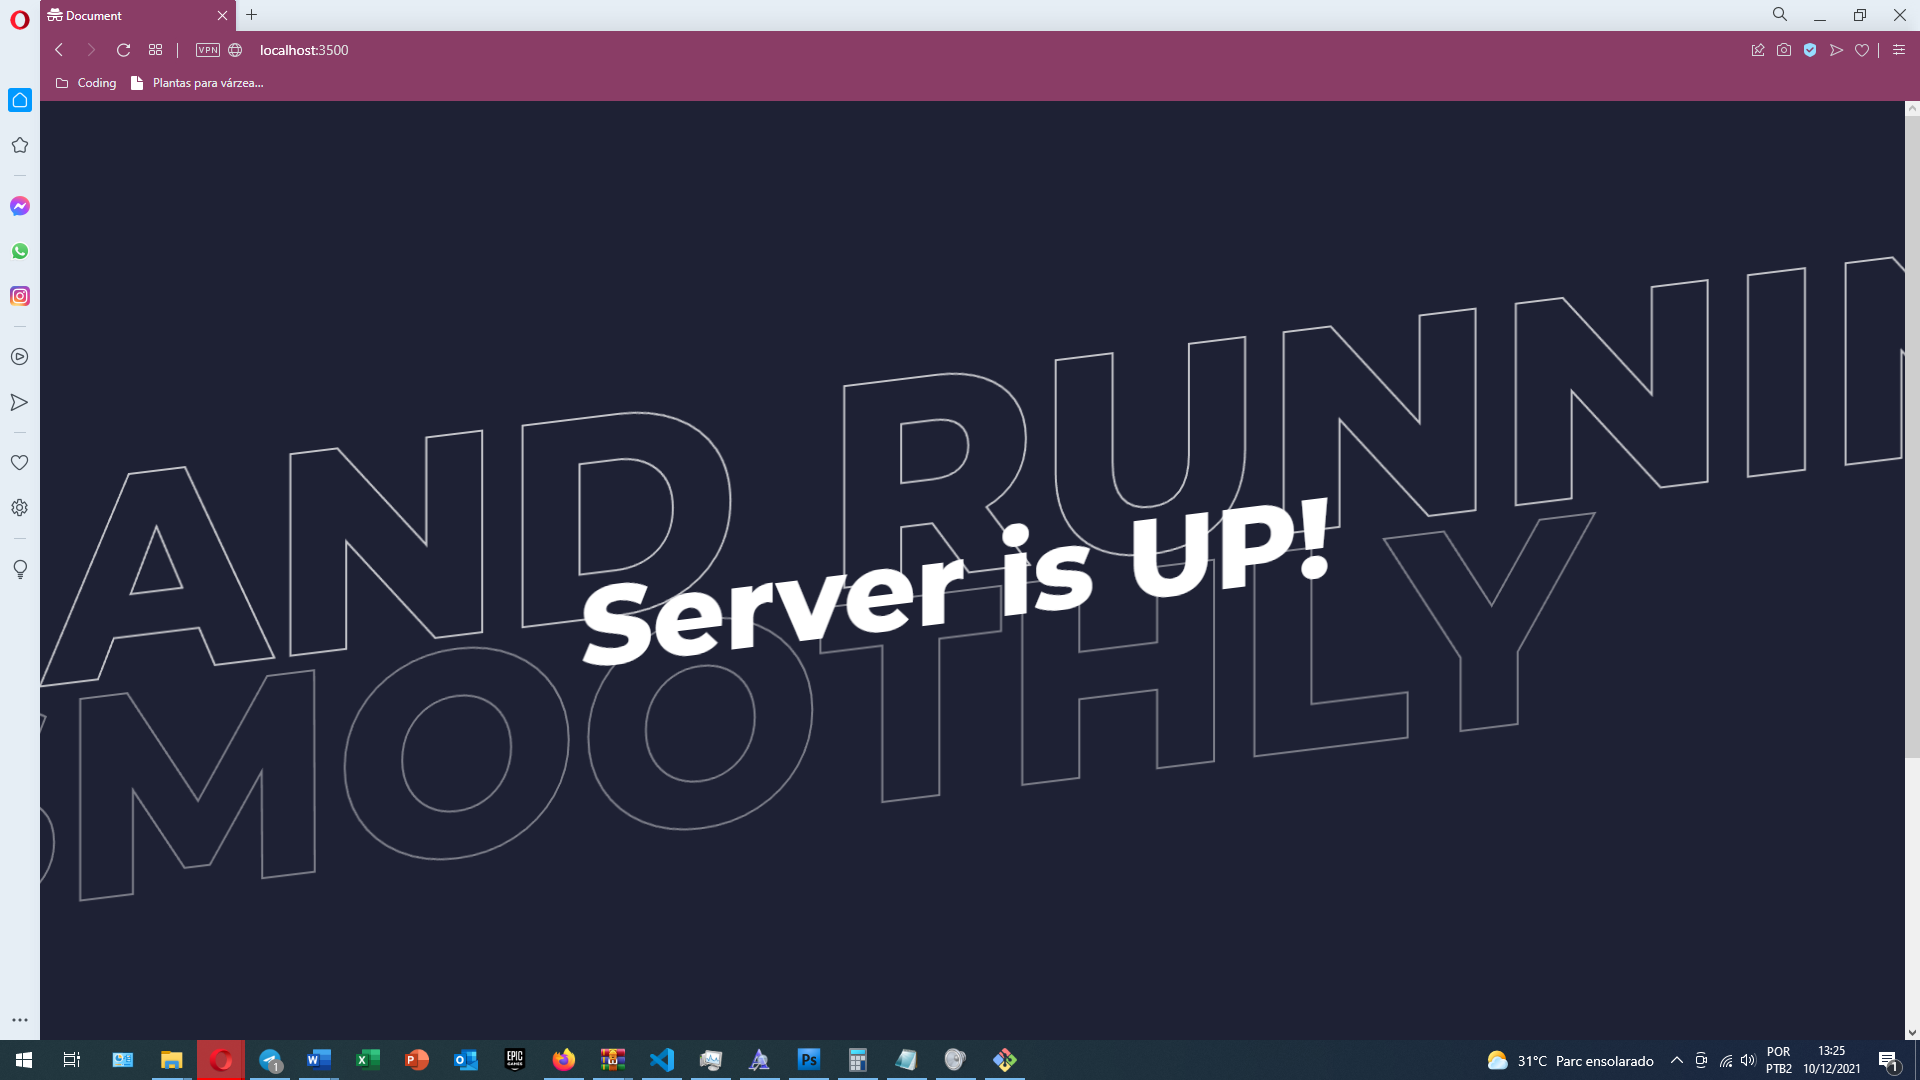
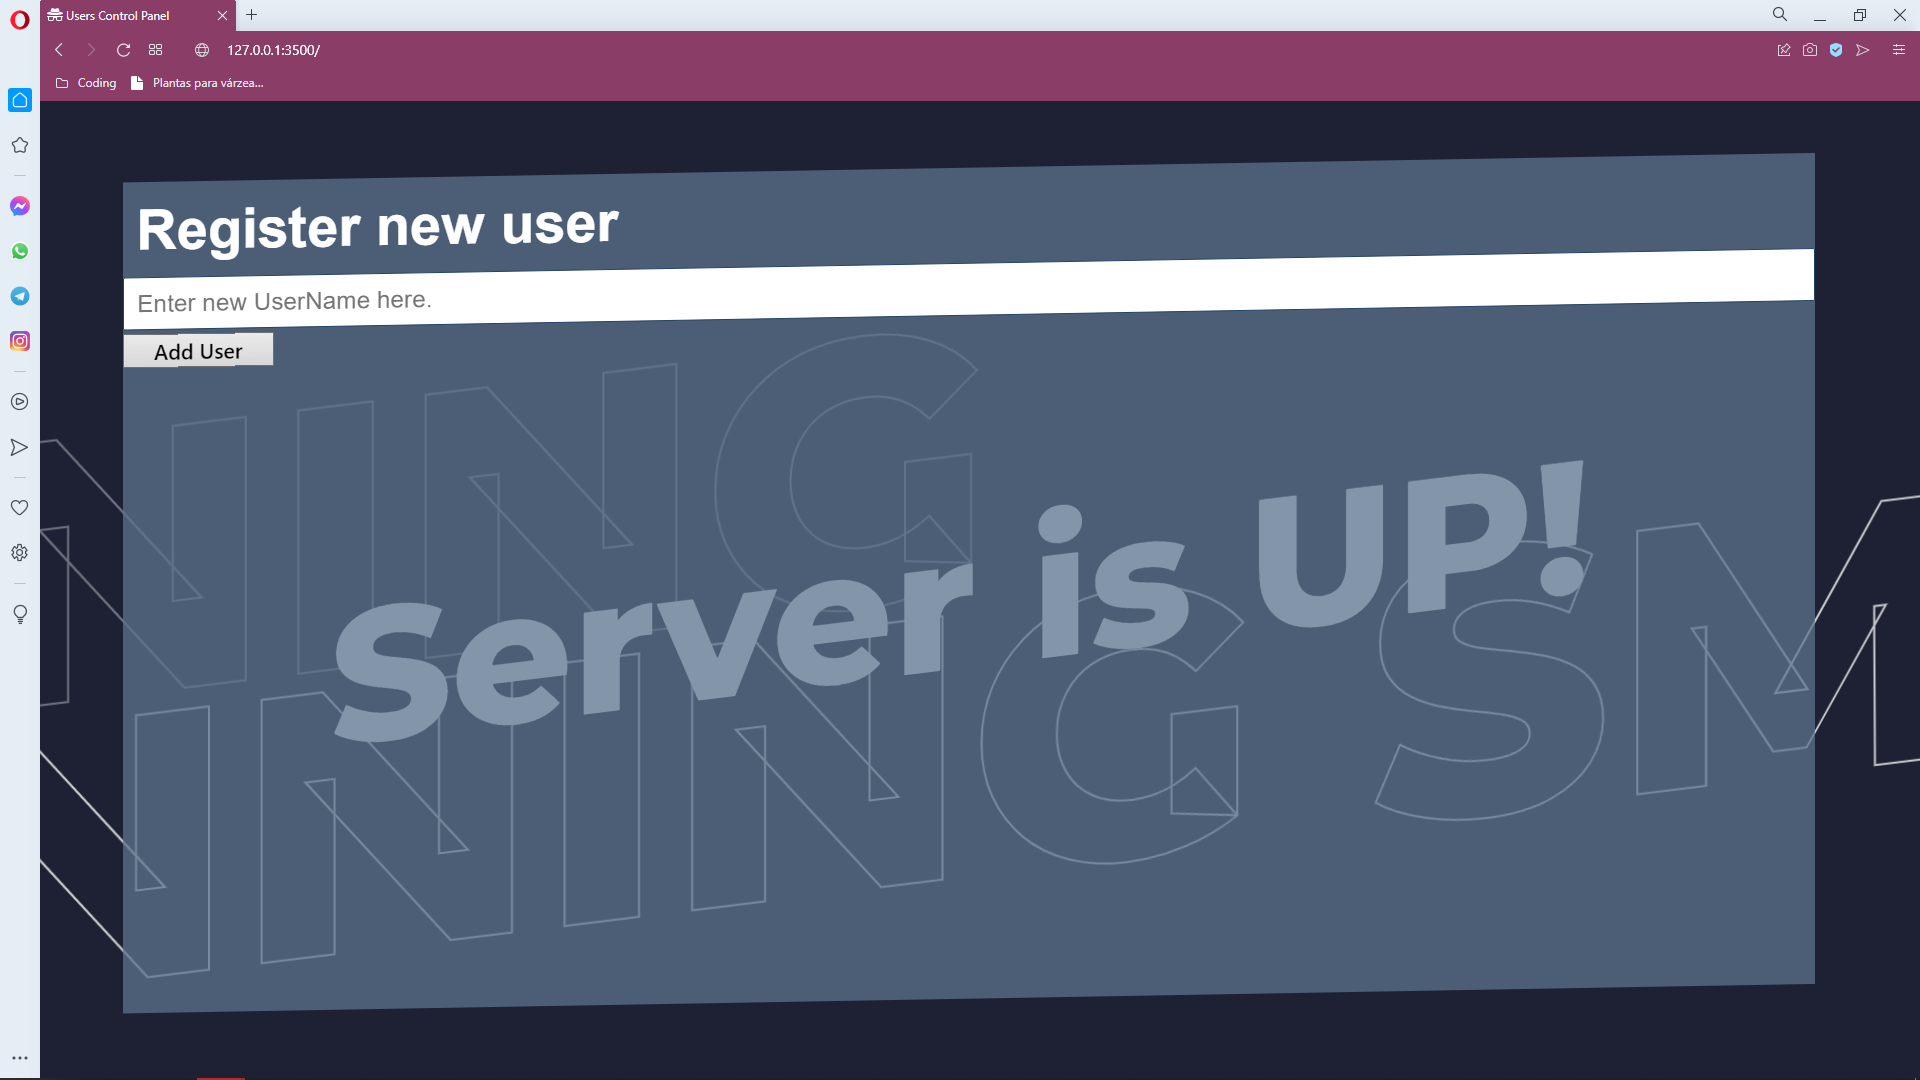
All pages now handled by pug. Woof. User registration via POST complete.

diff --git a/4 - Using HTML Template Engines/deploy.js b/4 - Using HTML Template Engines/deploy.js
@@ -8,12 +8,13 @@ const bodyParser = require('body-parser');
 const path = require('path');
 
 //Resources
-const defaultRoute = require('./routes/default');
+const defaultData = require('./routes/default');
 
 /** IMPORTS ABOVE **/
 
 // Defines Express "object"
 const app = express();
+
 // Global Express settings
 app.set('view engine', 'pug');
 app.set('views', 'templates');
@@ -25,7 +26,7 @@ app.use(express.static(path.join(__dirname, 'public')));
 
 
 /** ROUTES **/
-app.use(defaultRoute);
+app.use(defaultData.route);
 
 //Deploys server non port 3500
 app.listen(3500);

diff --git a/4 - Using HTML Template Engines/routes/default.js b/4 - Using HTML Template Engines/routes/default.js
@@ -2,12 +2,21 @@ const router = require('express').Router();
 
 const path = require('path');
 
+//Lame data sharing
+const usernames = [];
+
 router.get('/users', (req, res, next) => {
-    res.sendFile(path.join(__dirname, '..', 'templates','users.html'));
+    res.render('users', {users: usernames});
 });
 
 router.get('/', (req, res, next) => {
     res.render('index');
 });
 
-module.exports = router;
+router.post('/', (req, res, next) => {
+    usernames.push(req.body.user);
+    res.redirect('/users')
+});
+
+exports.route = router;
+exports.data = usernames;
